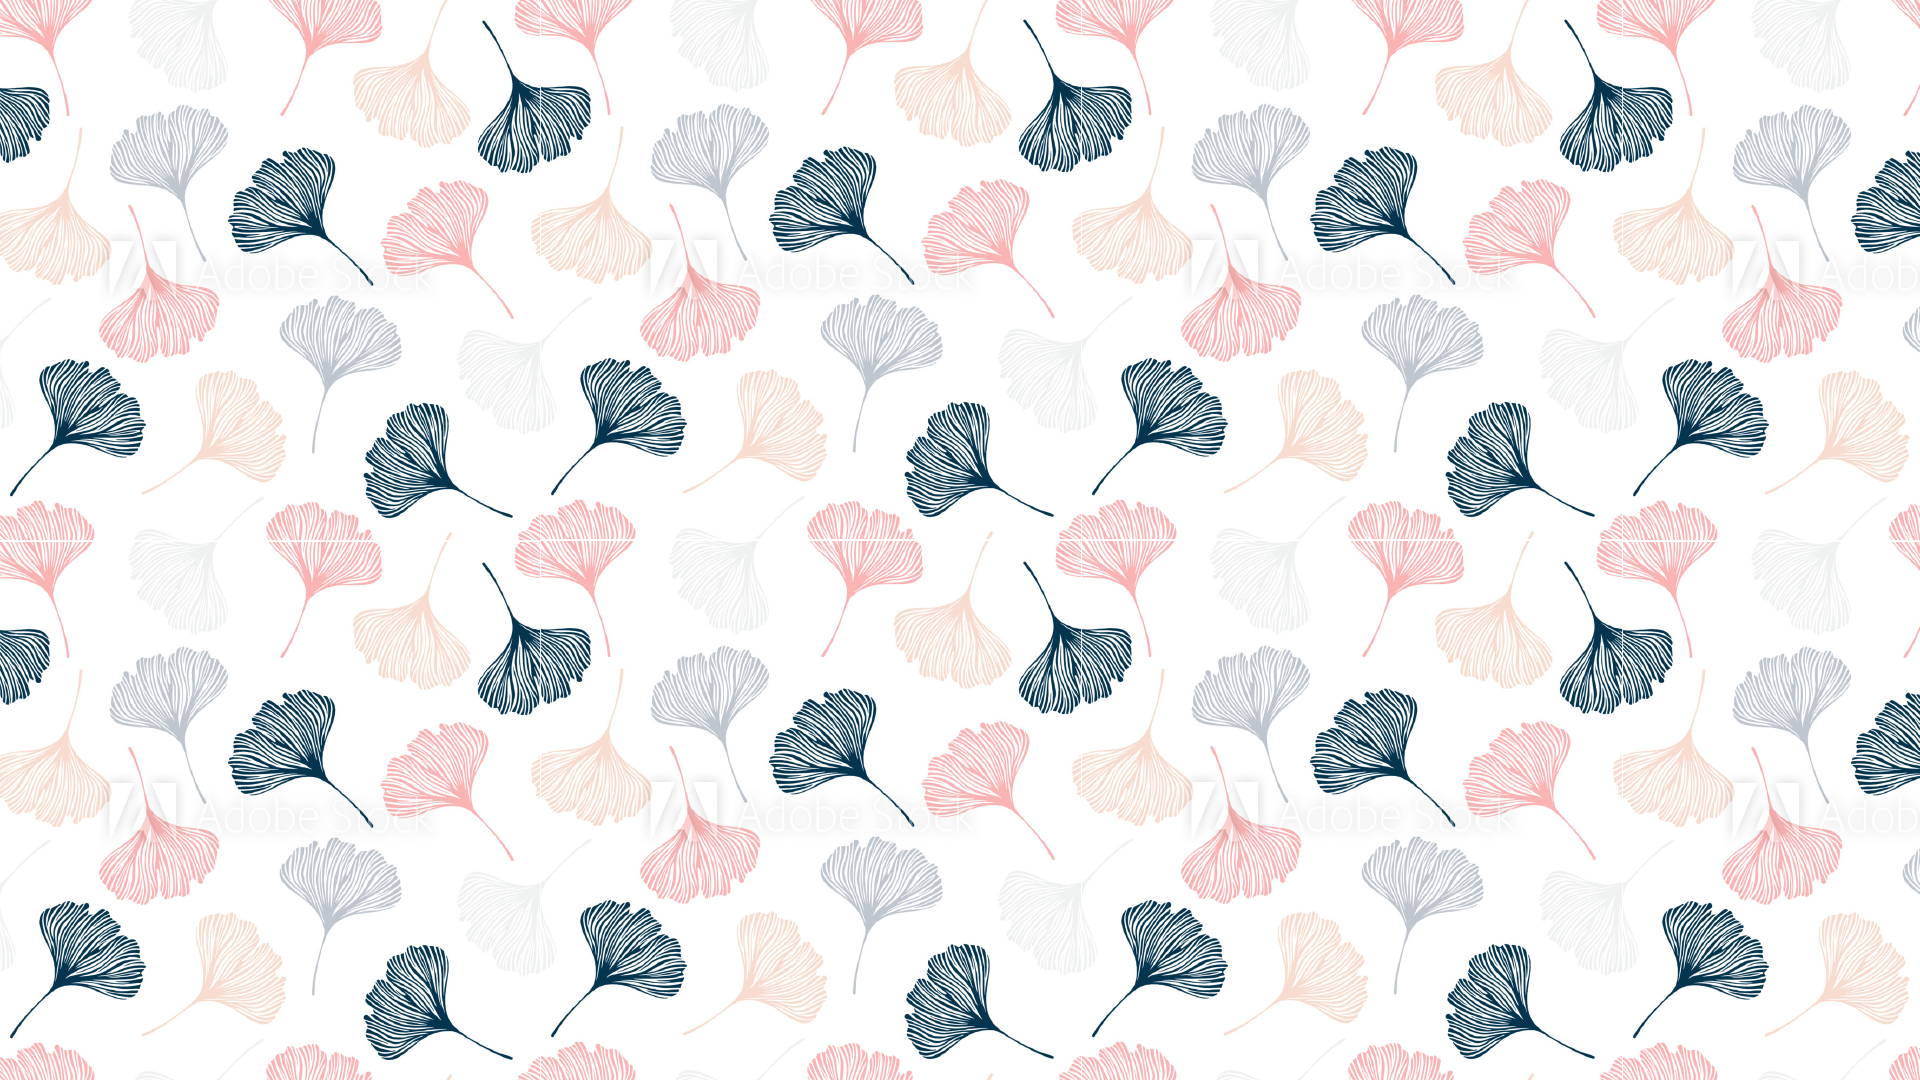
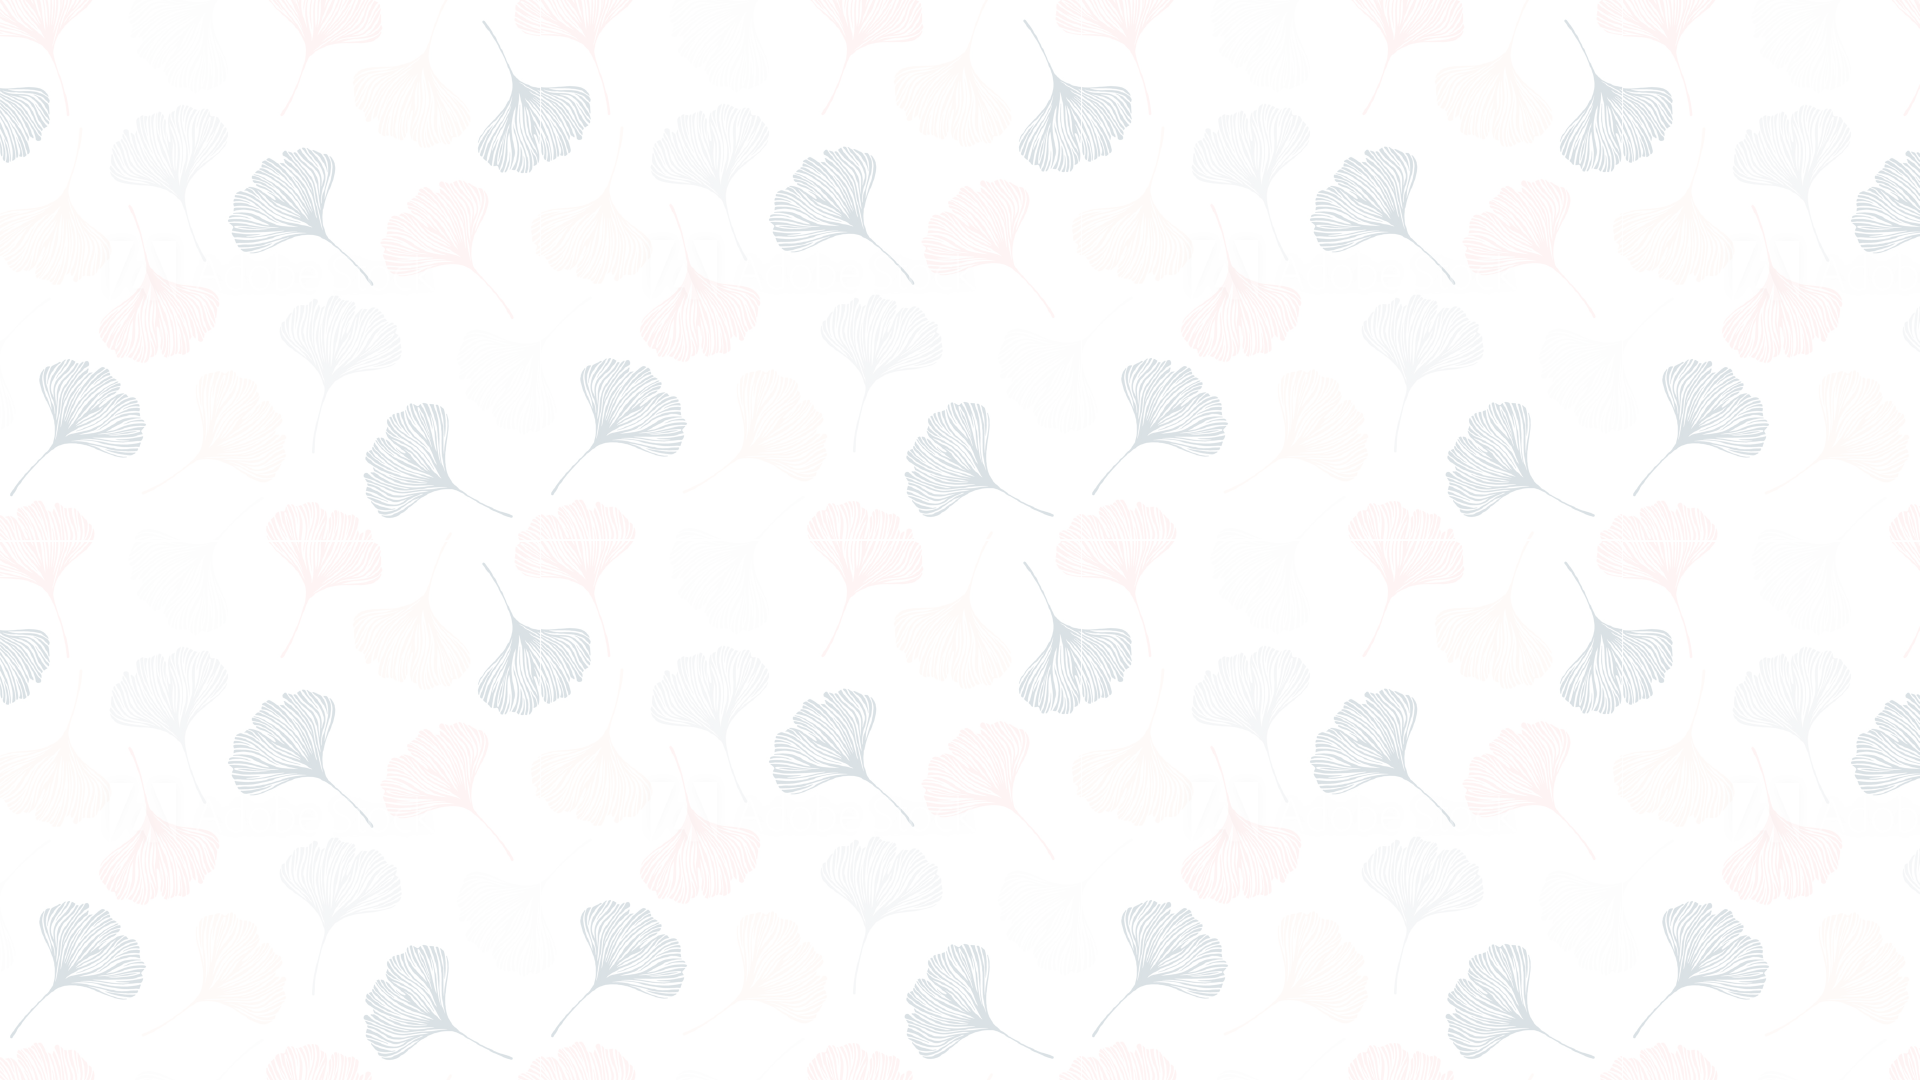
✨  Update sections to feed from forestry page

diff --git a/themes/reli/layouts/partials/section2.html b/themes/reli/layouts/partials/section2.html
@@ -1,29 +1,28 @@
 {{- $section2 := .Site.GetPage "/hero"  }}
-{{- $title    := $section2.Params.title }}
-{{- $subtitle := $section2.Params.subtitle }}
-{{- $features := $section2.Params.features }}
+{{- $title := $section2.Params.section2_title }}
+{{- $features := $section2.Params.section2 }}
 <section class="section is-medium">
   <div class="container">
     <div class="columns">
       <div class="column is-centered-tablet-portrait">
         <h1 class="title section-title">{{ $title }}</h1>
-        <h3 class="subtitle is-5 is-muted">{{ $subtitle }}</h3>
+        <h3 class="subtitle is-5 is-muted"></h3>
         <div class="divider"></div>
       </div>
       <div class="column is-7 mt-60">
         {{- range $features }}
         <article class="media icon-box">
-          <figure class="media-left">
+          <figure class="media-left image is-5 column">
             <p class="image">
-              <img src="{{ printf "/images/illustrations/icons/%s.svg" .icon | relURL }}">
+              <img src="{{ printf "%s" .photo | relURL }}" alt="Description">
             </p>
           </figure>
           <div class="media-content mt-50">
             <div class="content">
               <p>
-                <span class="icon-box-title">{{ .title }}</span>
+                <span class="icon-box-title">{{ .name }}</span>
 
-                <span class="icon-box-text">{{ .text }}</span>
+                <span class="icon-box-text">{{ .summary }}</span>
               </p>
             </div>
           </div>

diff --git a/themes/reli/layouts/partials/hero-body.html b/themes/reli/layouts/partials/hero-body.html
@@ -4,7 +4,7 @@
 {{- $buttonText := $hero.Params.buttontext }}
 {{- $buttonLink := $hero.Params.buttonlink }}
 {{- $image      := $hero.Params.hero_image }}
-<div class="hero-body">
+<div class="hero-body" style="background-image: url('{{ printf "%s" $image | relURL }}');">
   <div class="container">
     <div class="columns is-vcentered">
       <div class="column is-5 is-offset-1 landing-caption">
@@ -21,11 +21,6 @@
             {{ $buttonText }}
           </a>
         </p>
-      </div>
-      <div class="column is-5 is-offset-1">
-        <figure class="image is-5by7">
-          <img src="{{ printf "%s" $image | relURL }}" alt="Description">
-        </figure>
       </div>
     </div>
   </div>

diff --git a/themes/reli/layouts/partials/section1.html b/themes/reli/layouts/partials/section1.html
@@ -1,12 +1,11 @@
 {{- $section1 := .Site.GetPage "/hero" }}
-{{- $title    := $section1.Params.title }}
-{{- $subtitle := $section1.Params.subtitle }}
-{{- $tiles    := $section1.Params.tiles }}
+{{- $title :=  $section1.Params.section1_title }}
+{{- $tiles := $section1.Params.section1 }}
 <section id="about" class="section section-feature-grey is-medium">
   <div class="container">
     <div class="title-wrapper has-text-centered">
       <h2 class="title is-2">{{ $title }}</h2>
-      <h3 class="subtitle is-5 is-muted">{{ $subtitle }}</h3>
+      <h3 class="subtitle is-5 is-muted"></h3>
       <div class="divider is-centered"></div>
     </div>
 

diff --git a/themes/reli/layouts/_default/baseof.html b/themes/reli/layouts/_default/baseof.html
@@ -13,8 +13,8 @@
 
     {{ block "main" . }}
     {{ partial "hero.html" . }}
-    {{ partial "section1.html" . }}
     {{ partial "section2.html" . }}
+    {{ partial "section1.html" . }}
     {{ partial "section3.html" . }}
     {{ partial "section4.html" . }}
     {{ partial "footer.html" . }}

diff --git a/content/hero.md b/content/hero.md
@@ -2,8 +2,7 @@
 buttonlink = "#about"
 buttontext = "Appelez-moi"
 date = "2018-11-26T19:14:36+00:00"
-hero-image = "/uploads/background.png"
-hero_image = "/uploads/20180925012.jpg"
+hero_image = "/uploads/background.png"
 image = ""
 phone_number = "0612121212"
 presentations = []
